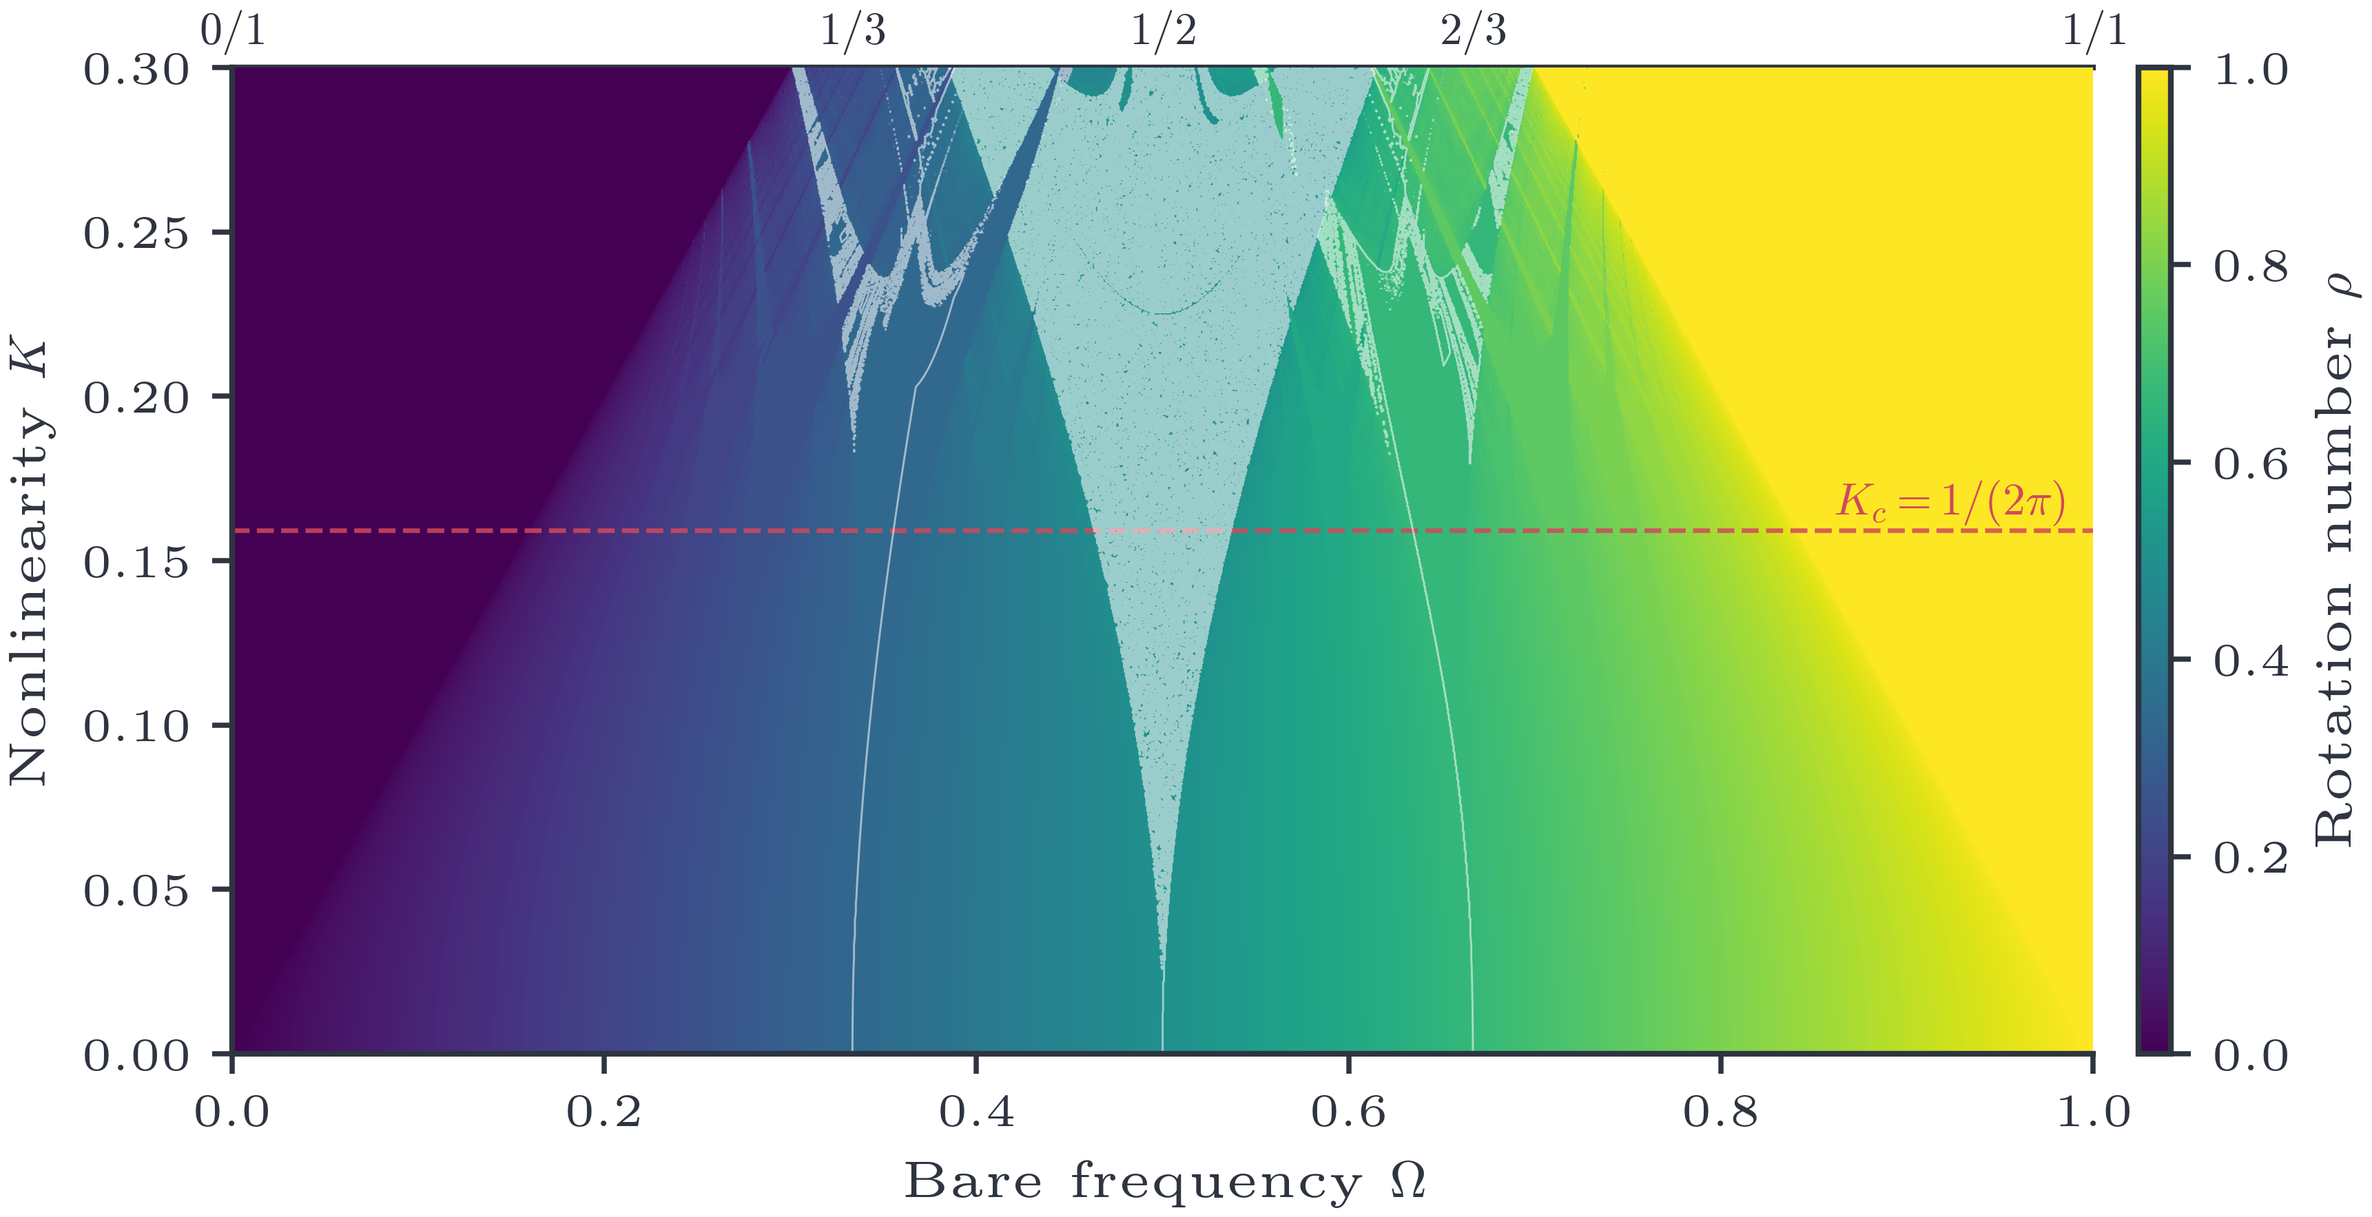
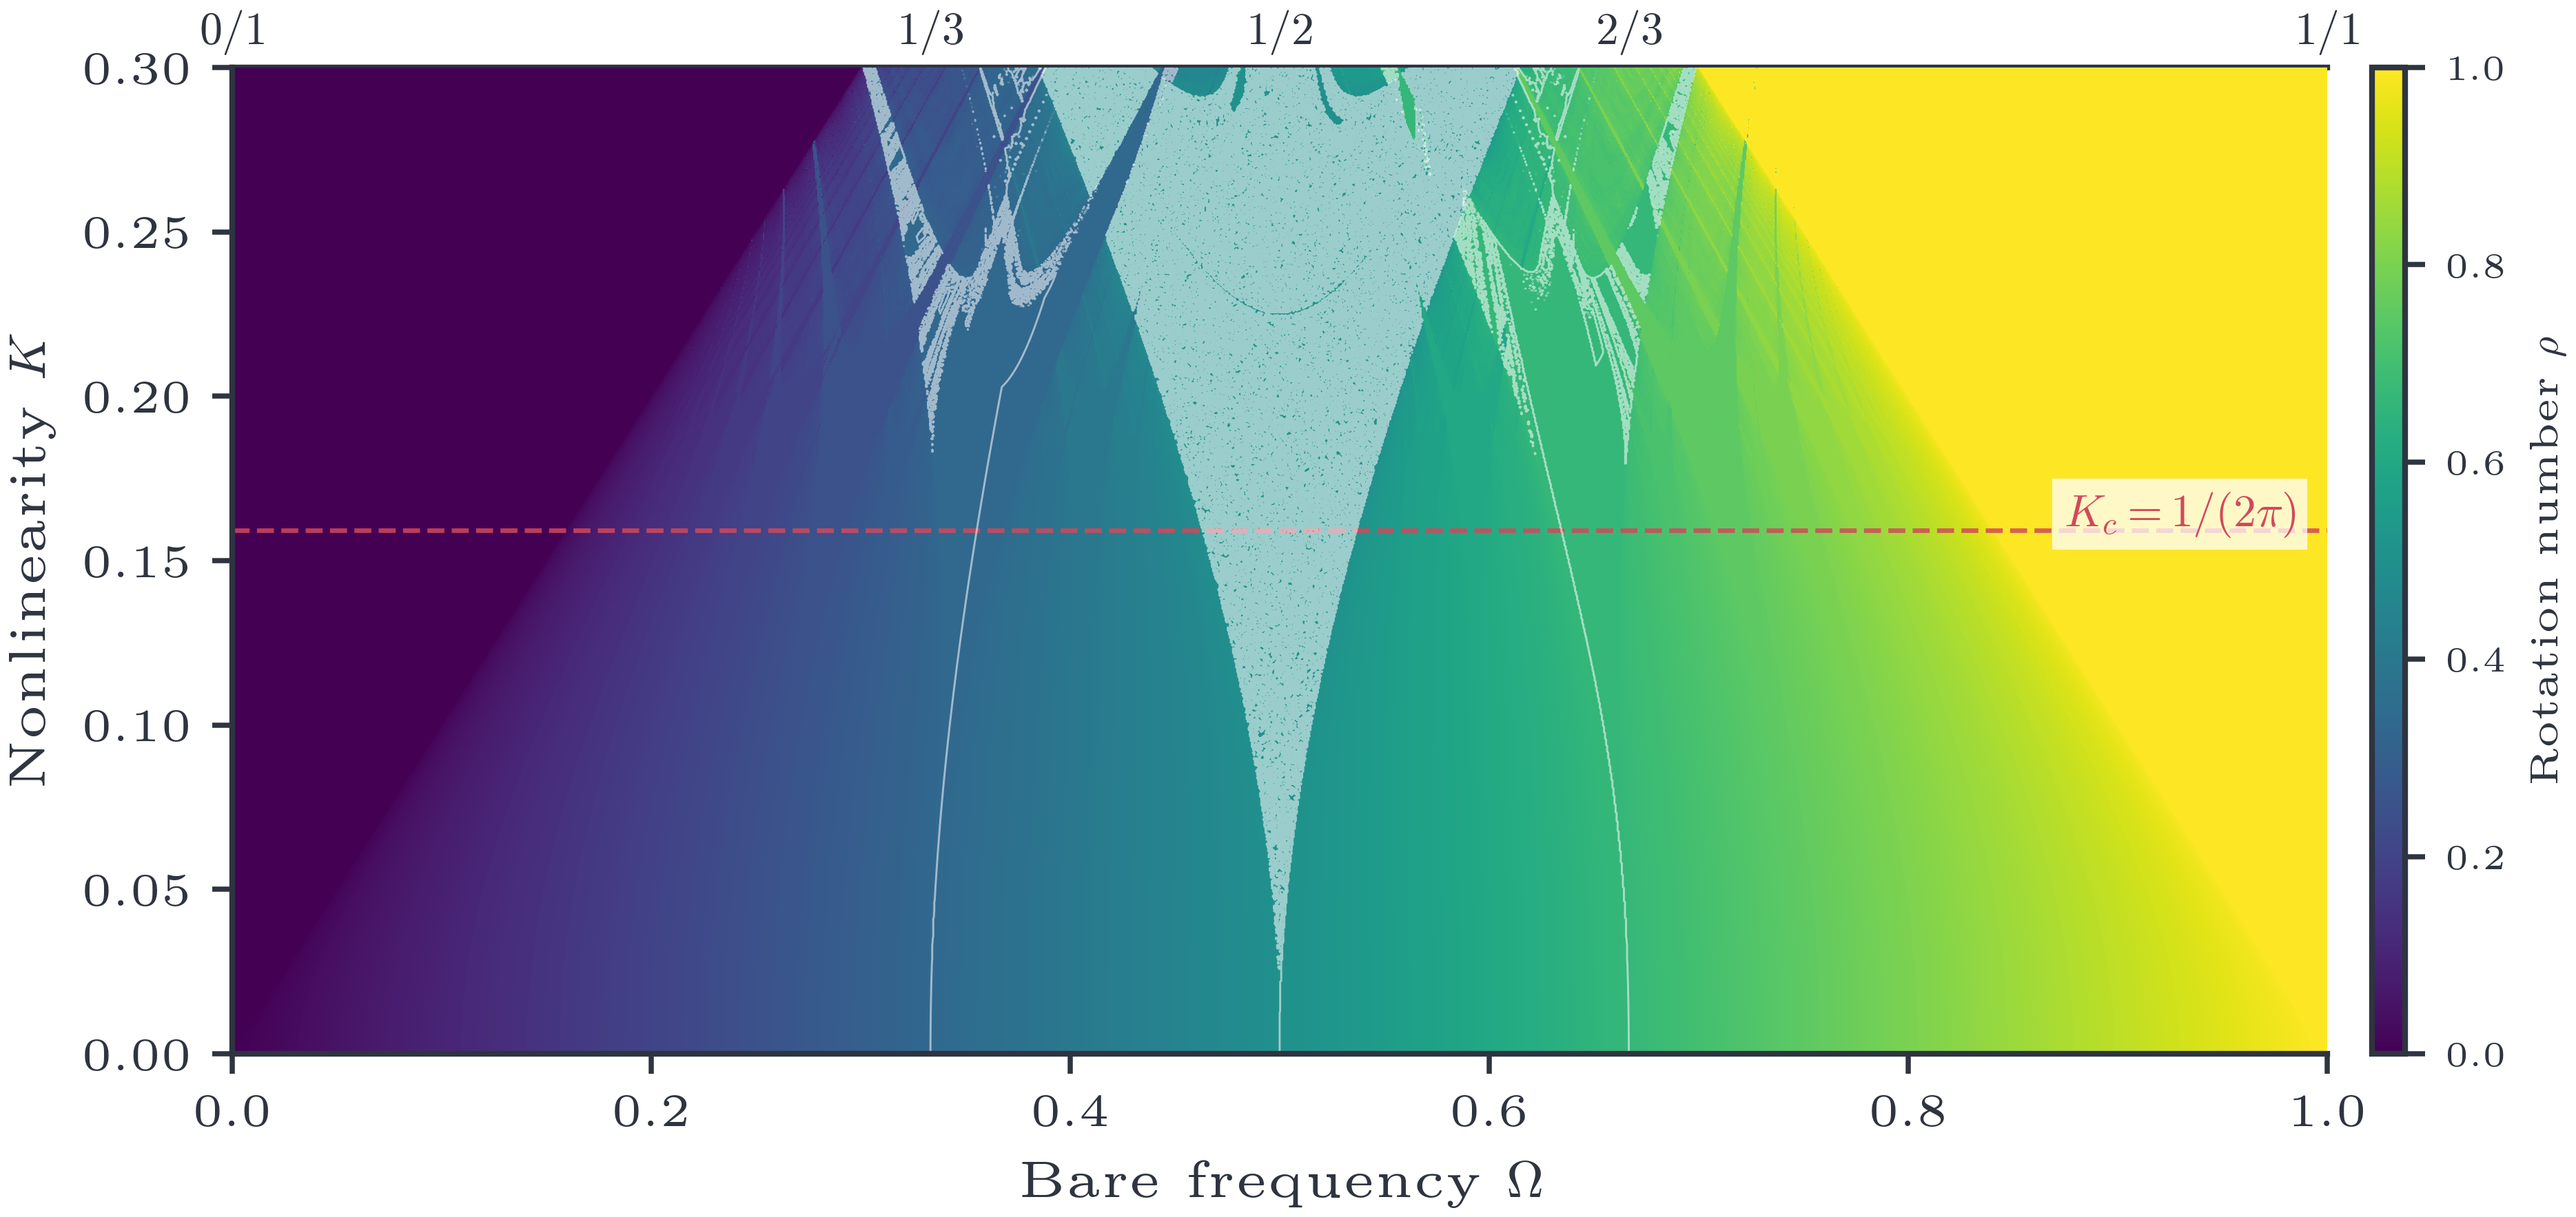
style(sec02): apply figure grammar — panel labels, grey reference lines, legible field annotations
circle_map.py + arnold_tongues.py: bold (a)/(b) panel labels via panel_label;
generic guides (rho=1/5, lambda=0, fraction lines) -> grey reference_line;
K_inf/K_c onset markers keyed blue/vermilion; K_c critical line + on-field
labels via annotate_on_field (offwhite bbox); colorbar via add_field_colorbar.
Presentation only; npz unchanged.

diff --git a/src/dynachaos/maps/circle_map.py b/src/dynachaos/maps/circle_map.py
@@ -150,8 +150,11 @@ def plot(data):
 
     from dynachaos.utils.style import (
         COLORS,
+        annotate_on_field,
         apply_axes_polish,
         figure_spec,
+        panel_label,
+        reference_line,
         setup,
     )
 
@@ -175,16 +178,18 @@ def plot(data):
     ax1.plot(A, rho, color=COLORS["black"], lw=0.35, rasterized=True)
     ax1.set_ylabel(r"Rotation number $\rho$")
     ax1.set_ylim(0.0, 0.255)
-    ax1.axhline(1.0 / 5.0, color=COLORS["grey"], lw=0.5, ls="--", alpha=0.7)
+    panel_label(ax1, "(a)")
+    reference_line(ax1, 1.0 / 5.0, axis="y", lw=0.5, alpha=0.7)
     ax1.text(0.004, 0.2035, r"$\rho = 1/5$", fontsize=spec.tick_size, color=COLORS["grey"])
 
     # --- Bottom panel: Lyapunov exponent vs A ---
     ax2.plot(A, lam, color=COLORS["black"], lw=0.2, linestyle="-", rasterized=True)
     ax2.fill_between(A, 0.0, lam, where=lam > 0.0, color=COLORS["red"], alpha=0.18)
-    ax2.axhline(0, color=COLORS["red"], lw=0.7, ls="--")
+    reference_line(ax2, 0.0, axis="y", lw=0.7)
     ax2.set_xlabel(r"Nonlinearity parameter $K$")
     ax2.set_ylabel(r"Lyapunov exponent $\lambda$")
     ax2.set_xlim(0, 0.25)
+    panel_label(ax2, "(b)")
 
     # Mark the onset of 1/5 locking and the onset of chaos from Kaneko's D=0.25 scan.
     K_inf = 0.15671685
@@ -192,20 +197,25 @@ def plot(data):
     for ax in (ax1, ax2):
         ax.axvline(K_inf, color=COLORS["blue"], lw=0.7, ls=":", alpha=0.8)
         ax.axvline(K_c, color=COLORS["red"], lw=0.7, ls=":", alpha=0.8)
-    ax1.text(
+    annotate_on_field(
+        ax1,
         K_inf + 0.002,
         0.244,
         r"$K_\infty$: onset of $1/5$ locking",
         fontsize=spec.tick_size,
         color=COLORS["blue"],
+        ha="left",
+        va="center",
     )
     ax2.set_ylim(min(-2.4, lam.min() * 1.05), 0.18)
-    ax2.text(
+    annotate_on_field(
+        ax2,
         K_c + 0.002,
         0.07,
         r"$K_c$: chaos onset",
         fontsize=spec.tick_size,
         color=COLORS["red"],
+        ha="left",
         va="bottom",
     )
 
@@ -258,7 +268,14 @@ def plot_zoom(zoom_data, full_data):
     import matplotlib.pyplot as plt
     from matplotlib.patches import Rectangle
 
-    from dynachaos.utils.style import COLORS, apply_axes_polish, figure_spec, setup
+    from dynachaos.utils.style import (
+        COLORS,
+        apply_axes_polish,
+        figure_spec,
+        panel_label,
+        reference_line,
+        setup,
+    )
 
     setup()
 
@@ -277,9 +294,10 @@ def plot_zoom(zoom_data, full_data):
     ax_full.plot(A_full, rho_full, color=COLORS["black"], lw=0.3, rasterized=True)
     ax_full.set_xlabel(r"Nonlinearity $K$")
     ax_full.set_ylabel(r"Rotation number $\rho$")
-    ax_full.set_title("(a) Global staircase", loc="left")
+    ax_full.set_title("Global staircase", loc="left")
     ax_full.set_xlim(0, 0.25)
     ax_full.set_ylim(0.0, 0.255)
+    panel_label(ax_full, "(a)")
 
     # Zoom box
     zoom_K = (0.125, 0.158)
@@ -301,9 +319,10 @@ def plot_zoom(zoom_data, full_data):
     ax_zoom.plot(A_zoom, rho_zoom, color=COLORS["black"], lw=0.3, rasterized=True)
     ax_zoom.set_xlabel(r"Nonlinearity $K$")
     ax_zoom.set_ylabel(r"Rotation number $\rho$")
-    ax_zoom.set_title("(b) Period-adding sequence approaching $1/5$", loc="left")
+    ax_zoom.set_title(r"Period-adding sequence approaching $1/5$", loc="left")
     ax_zoom.set_xlim(*zoom_K)
     ax_zoom.set_ylim(*zoom_rho)
+    panel_label(ax_zoom, "(b)")
 
     # Mark the dominant period-adding sequence n/(5n-1) and the 1/5 accumulation plateau.
     rationals = {
@@ -313,7 +332,7 @@ def plot_zoom(zoom_data, full_data):
         r"$1/5$": 1.0 / 5.0,
     }
     for label, val in rationals.items():
-        ax_zoom.axhline(val, color=COLORS["grey"], lw=0.3, ls="--", alpha=0.5)
+        reference_line(ax_zoom, val, axis="y", lw=0.3, alpha=0.5)
         ax_zoom.text(
             zoom_K[1] - 0.0008,
             val + 0.0006,

diff --git a/src/dynachaos/maps/arnold_tongues.py b/src/dynachaos/maps/arnold_tongues.py
@@ -89,8 +89,9 @@ def plot(data):
     import matplotlib.pyplot as plt
 
     from dynachaos.utils.style import (
-        CMAP_SEQUENTIAL,
         COLORS,
+        add_field_colorbar,
+        annotate_on_field,
         apply_axes_polish,
         figure_spec,
         setup,
@@ -109,7 +110,7 @@ def plot(data):
         Omega,
         K,
         rho,
-        cmap=CMAP_SEQUENTIAL,
+        cmap="viridis",
         shading="auto",
         rasterized=True,
     )
@@ -118,13 +119,15 @@ def plot(data):
     # Critical line K_c = 1/(2π)
     K_c = 1.0 / (2.0 * np.pi)
     ax.axhline(K_c, color=COLORS["red"], lw=0.8, ls="--", alpha=0.85)
-    ax.text(
+    annotate_on_field(
+        ax,
         0.985,
         K_c + 0.005,
         r"$K_c = 1/(2\pi)$",
         fontsize=spec.tick_size,
         color=COLORS["red"],
         ha="right",
+        va="center",
     )
 
     # Highlight the dominant primary tongues directly on the field.
@@ -153,9 +156,7 @@ def plot(data):
     )
     top.tick_params(axis="x", pad=2, length=0)
 
-    cb = fig.colorbar(pcm, ax=ax, pad=0.02, aspect=30)
-    cb.set_label(r"Rotation number $\rho$", fontsize=spec.label_size)
-    cb.ax.tick_params(labelsize=spec.tick_size)
+    add_field_colorbar(fig, pcm, ax, label=r"Rotation number $\rho$", pad=0.02, aspect=30)
 
     apply_axes_polish(ax, kind="double", grid=False)
 
